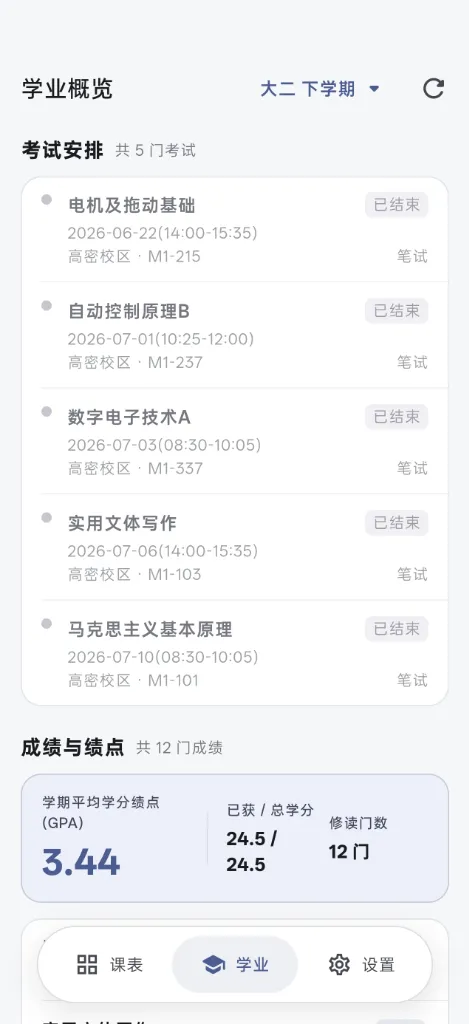
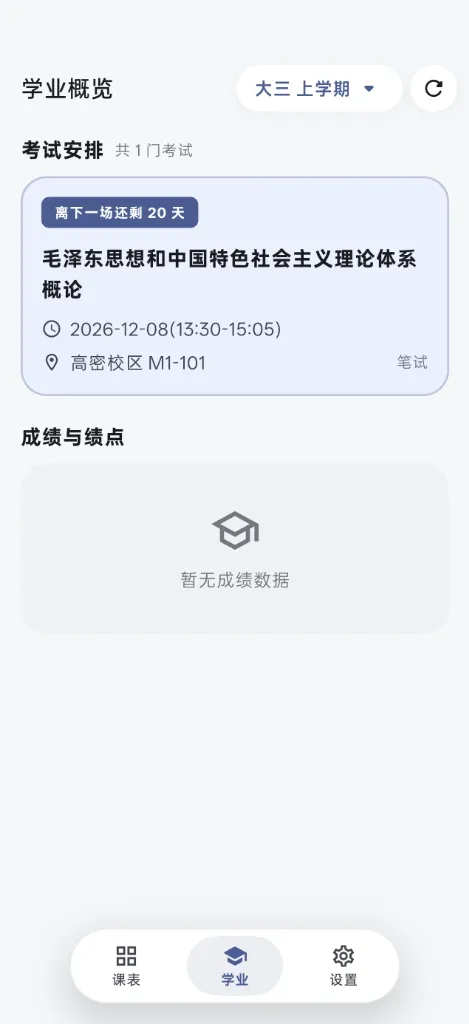
chore(docs): 更新截图文件以反映最新界面变化

diff --git a/README.md b/README.md
@@ -59,16 +59,15 @@
 - **原生级精准度与高可靠自愈**：
   - 底层采用系统级 `AlarmManager` 精确闹钟，息屏休眠下也能准时触发，无需常驻后台常唤醒；
   - 自动预排未来 14 天课程，每日凌晨 00:05 原生链式自愈更新；
-  - 手机重启或覆盖安装后，开机自动恢复排程；
+  - 手机重启或覆盖安装后，开机自动恢复排程。
 - **全流程权限引导与诊断探针**：
   - 针对通知、精确闹钟、后台耗电优化、自启动提供精准的状态自检与直达系统设置入口；
   - 诊断区支持「立即显示通知」与「延迟测试提醒」，方便即时预览效果与排查系统拦截。
 
 ### 🚀 自动检查更新
 
-- **自动检查**：冷启动时触发更新检查，发现新版本会弹出通知
-
-- **加速代理**：内置多条 GitHub 镜像加速代理池，保障弱网环境下的稳定检测。
+- **单弹窗后台下载**：冷启动静默检测新版本，更新弹窗支持退入后台下载并在课表顶栏随时恢复查看；多线程并发分片下载，异常中断自动清理残留。
+- **加速代理池**：内置多条 GitHub 镜像加速代理并支持节点测速与自定义代理，保障弱网环境下的稳定检测与高速下载。
 
 ### 🔒 数据、安全与网络
 
@@ -88,18 +87,18 @@
 
 ### 常用操作技巧
 
-- **切周与回正**：在课表页左右滑动或点击顶部箭头翻周；翻离当前周时，右下角浮出「今」按钮，点击立即回弹到本周。
-- **快捷菜单**：点击右上角「⋯」可快速调出周次校准、作息表、换校/换线路、外观调节与调课设置面板。
-- **状态弹窗**：点击右上角刷新图标可在后台拉取最新课表，拉取进度与报错均收敛在右上角浮层弹窗中，不会遮挡或冲掉当前已显示的课表。
+- **切周与回正**：在课表页左右滑动或点击顶部箭头翻周；翻离当前周时，右下角浮出「今」按钮，点击回弹到本周。
+- **弹性菜单与长按手势**：点击或长按右上角「⋯」、顶部周次或学期等按钮可原地弹性展开菜单，支持滑选操作,点击空白区域关闭。
+- **状态弹窗与自由复制**：点击右上角刷新图标可在后台拉取最新课表，拉取进度与报错收敛在右上角浮层弹窗或底部轻胶囊中；课程详情、调试页与协议信息均支持长按自由选字复制。
 
 
 ## 技术架构
 
-- **跨平台框架**：Flutter 3.47 / Dart 3.13.5（支持 Android 与 Windows 桌面端）。
+- **跨平台框架**：Flutter 3.47.7 / Dart 3.13.5（支持 Android 与 Windows 桌面端）。
 - **极简依赖原则**：
-  - 核心运行时仅依赖 `flutter_secure_storage`（加密凭据）、`path_provider`（私有路径）、`url_launcher`（外部链接跳转）。
+  - 核心运行时仅依赖 `flutter_secure_storage`（加密凭据）、`path_provider`（私有路径）、`crypto`（本地摘要/签名运算）、`url_launcher`（外部链接跳转）。
 - **协议层解耦（`zf_academic`）**：
-  - 教务交互与协议解析全部封装在子模块 `packages/zf_academic` 中，为**纯 Dart 实现（零 Flutter 引擎依赖）**；
+  - 教务交互与协议解析全部封装在子模块 `packages/zf_academic` 中，为**纯 Dart 实现（零 Flutter 引擎依赖）**。
 
 ## 目录结构
 
@@ -108,33 +107,38 @@ qustschedule/
 ├── lib/
 │   ├── main.dart                      应用入口：全局生命周期、状态路由
 │   ├── src/
-│   │   ├── app_model.dart             核心状态机：会话、周次校准、作息、调课、学业后台静默同步
-│   │   ├── app_version.dart           应用版本号管理
+│   │   ├── app_model.dart             核心门面状态机：统筹会话、冷启动、前后台调度
+│   │   ├── app_version.dart           应用版本号管理（运行时读取 pubspec.yaml）
+│   │   ├── state/                     五大细粒度控制器（auth_session/schedule/academic/preferences/hint_notice）
+│   │   ├── updater/                   应用内更新状态机、多线程下载器、Windows/Android 安装器
 │   │   ├── schedule_service.dart      课表拉取编排：Cookie 优先、全局 Mutex Flight、熔断与降级
 │   │   ├── academic_service.dart      学业编排：考试/成绩拉取、未评教拦截诊断、原生 GPA 统计
 │   │   ├── academic_cache.dart        学业离线缓存（ExamCache、GradesCache，按学期 JSON 隔离落盘）
 │   │   ├── backends.dart              教务协议抽象接口
 │   │   ├── schedule_cache.dart        课表本地离线缓存
+│   │   ├── safe_json_file.dart        原子写入、滚动备份自愈与 Isolate 阈值后台编解码
 │   │   ├── reschedule.dart            调课规则引擎与冲突计算
 │   │   ├── term_calendar.dart         周次 ↔ 日期转换、同日排课布局
+│   │   ├── term_selector_helper.dart  学期选择与显示辅助
 │   │   ├── timetable.dart             作息表模型与节次快捷运算
 │   │   ├── course_text.dart           卡片文字自适应缩放与截断排版
+│   │   ├── formatted_text_span.dart   轻量更新日志行内富文本解析
+│   │   ├── route_settled.dart         二级页转场落稳后的延迟任务调度工具
 │   │   ├── preferences_repository.dart 用户偏好持久化（Schema 13，向下兼容）
 │   │   ├── credentials_repository.dart 凭据安全存储（Keystore / DPAPI）
 │   │   ├── session_repository.dart    Cookie 容器快照持久化
-│   │   ├── update_service.dart        应用更新：加速代理降级、便携版热更新与 Robocopy 替换
 │   │   ├── reminder_planner.dart      提醒规划纯函数：事件生成、指纹、14 天窗口
 │   │   ├── reminder_gateway.dart      原生闹钟与提醒通道抽象（MethodChannel）
 │   │   ├── reminder_service.dart      提醒编排：防抖聚合、去重与重试
 │   │   └── school.dart                青科大教务线路配置
-│   ├── pages/                         登录 / 课表 / 学业 / 设置 / 提醒 / 作息 / 调课 / 调试等各页面
-│   ├── widgets/                       课程卡片 / 状态弹窗 / 浮动 Dock / 滚轮等通用组件
-│   └── theme/                         Material 3 配色系统与卡片风格
-├── packages/zf_academic/              独立教务协议层库（纯 Dart 核心）
-├── test/                              UI、组件与业务逻辑自动化测试用例
+│   ├── pages/                         首页外壳 / 课表 / 学业 / 设置 / 提醒 / 作息 / 调课 / 更新 / 调试等页面
+│   ├── widgets/                       触感按钮与四层合绘 / 弹性菜单 / 浮动 Dock / 悬浮胶囊 / 公共弹窗 / 课表组件
+│   └── theme/                         Material 3 语义色令牌与课程调色板
+├── packages/zf_academic/              独立教务协议层库（纯 Dart 核心，含 Isolate Cookie 存储）
+├── test/                              单元、状态机、UI 性能契约与并发回归测试
 ├── docs/                              项目文档、Logo 与界面预览截图
 ├── android/                           Android 原生工程（Kotlin + AlarmManager + 流体云）
-├── windows/                           Windows 原生工程（CMake + MSVC + Runner）
+├── windows/                           Windows 原生工程（CMake + MSVC + 单实例互斥锁 + Inno Setup）
 ├── .github/workflows/                 GitHub Actions 持续集成与多端自动发版
 └── pubspec.yaml                       项目包配置与版本号定义
 ```
